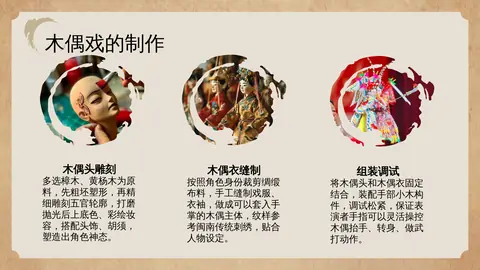
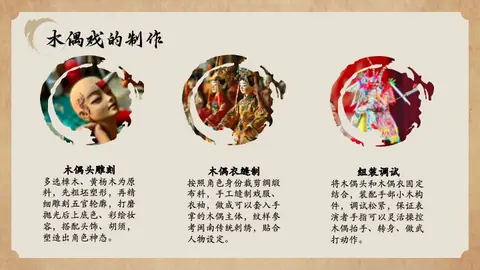
PPT portfolio: use user's own exports for the puppet-theatre deck
Claude-Session: https://claude.ai/code/session_012suDiCnWFgor8P36ZfnJsd

diff --git a/ppt/index.html b/ppt/index.html
@@ -121,7 +121,7 @@ const WORKS=[
   {id:'coffee',n:18,title:'Mellower Coffee 供应链案例分析',sub:'英文汇报 PPT · 手绘插画风',cover:1}
 ];
 const pad=i=>String(i).padStart(2,'0');
-const src=(w,i,s)=>`img/${w.id}-${pad(i)}${s?'-s':''}.webp?v=2`;
+const src=(w,i,s)=>`img/${w.id}-${pad(i)}${s?'-s':''}.webp?v=3`;
 const box=document.getElementById('works');
 WORKS.forEach((w,k)=>{
   const el=document.createElement('section');el.className='work rv';
